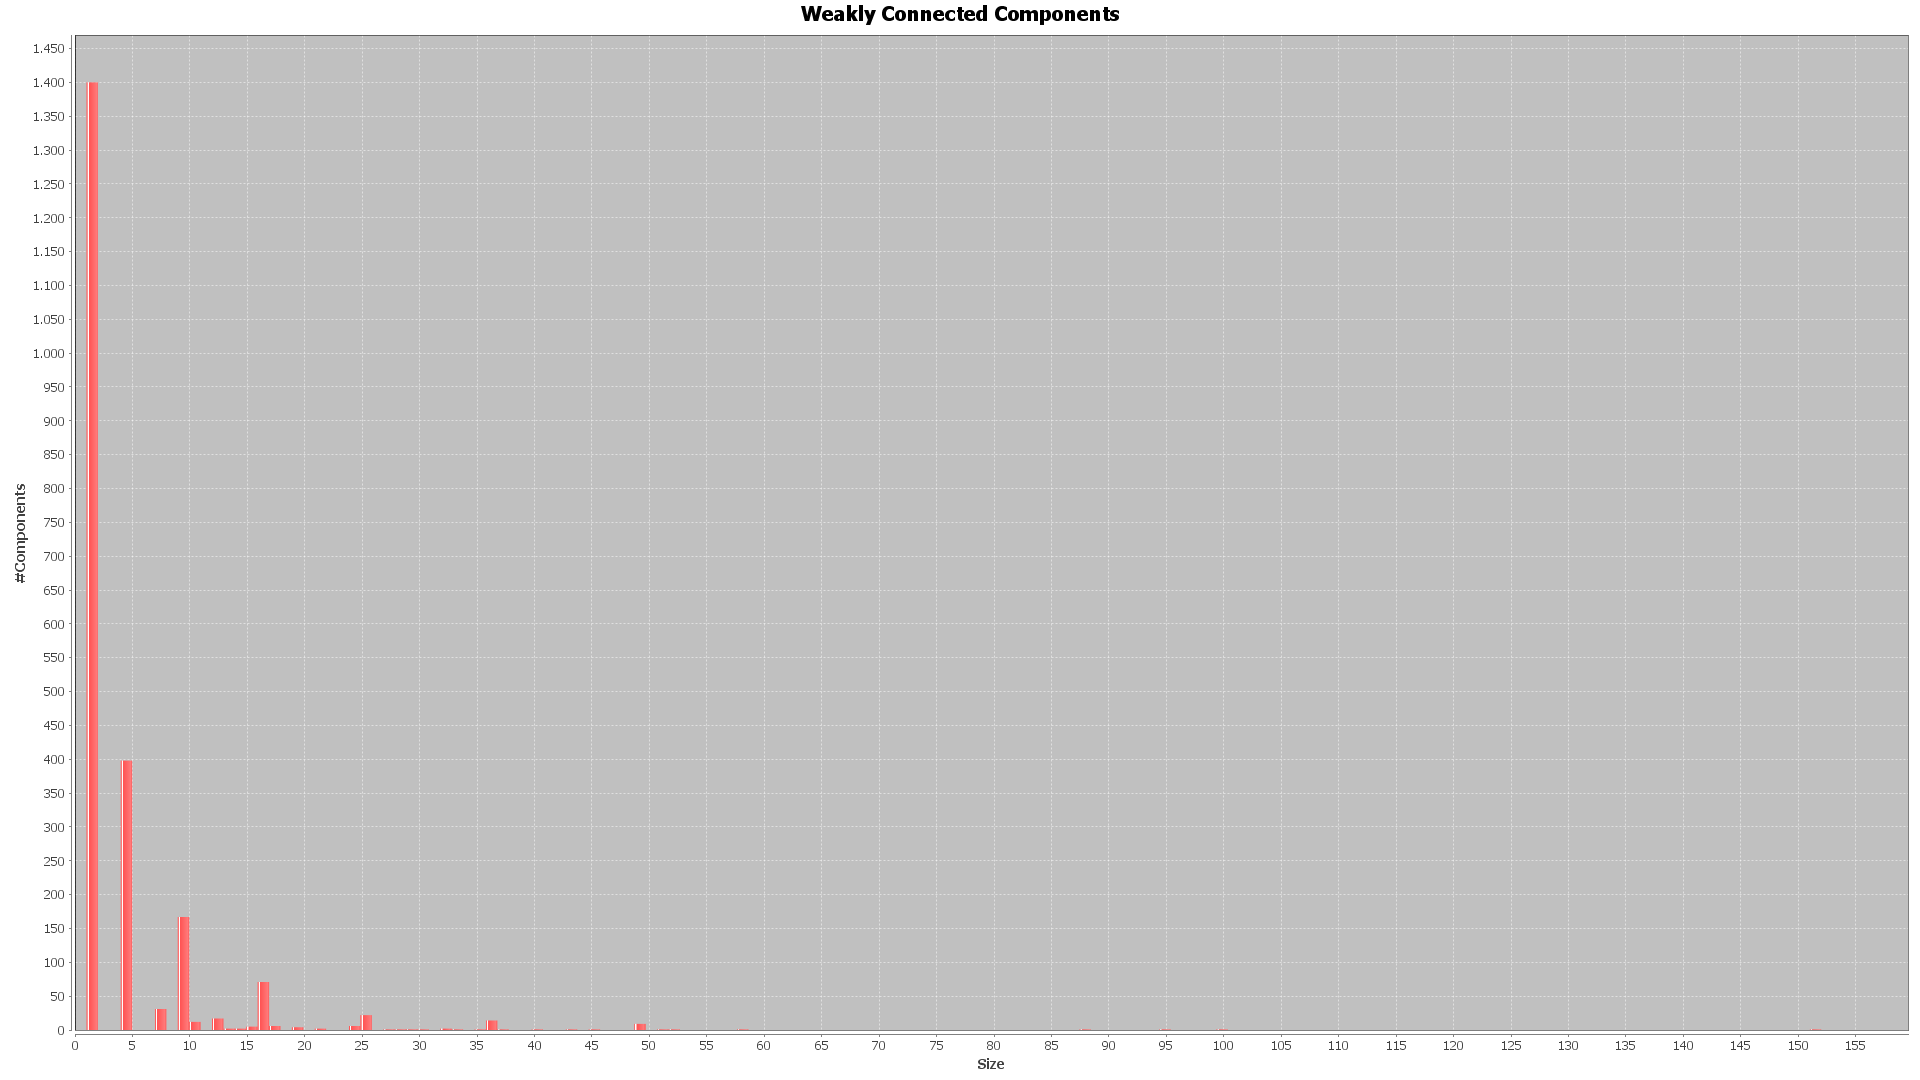
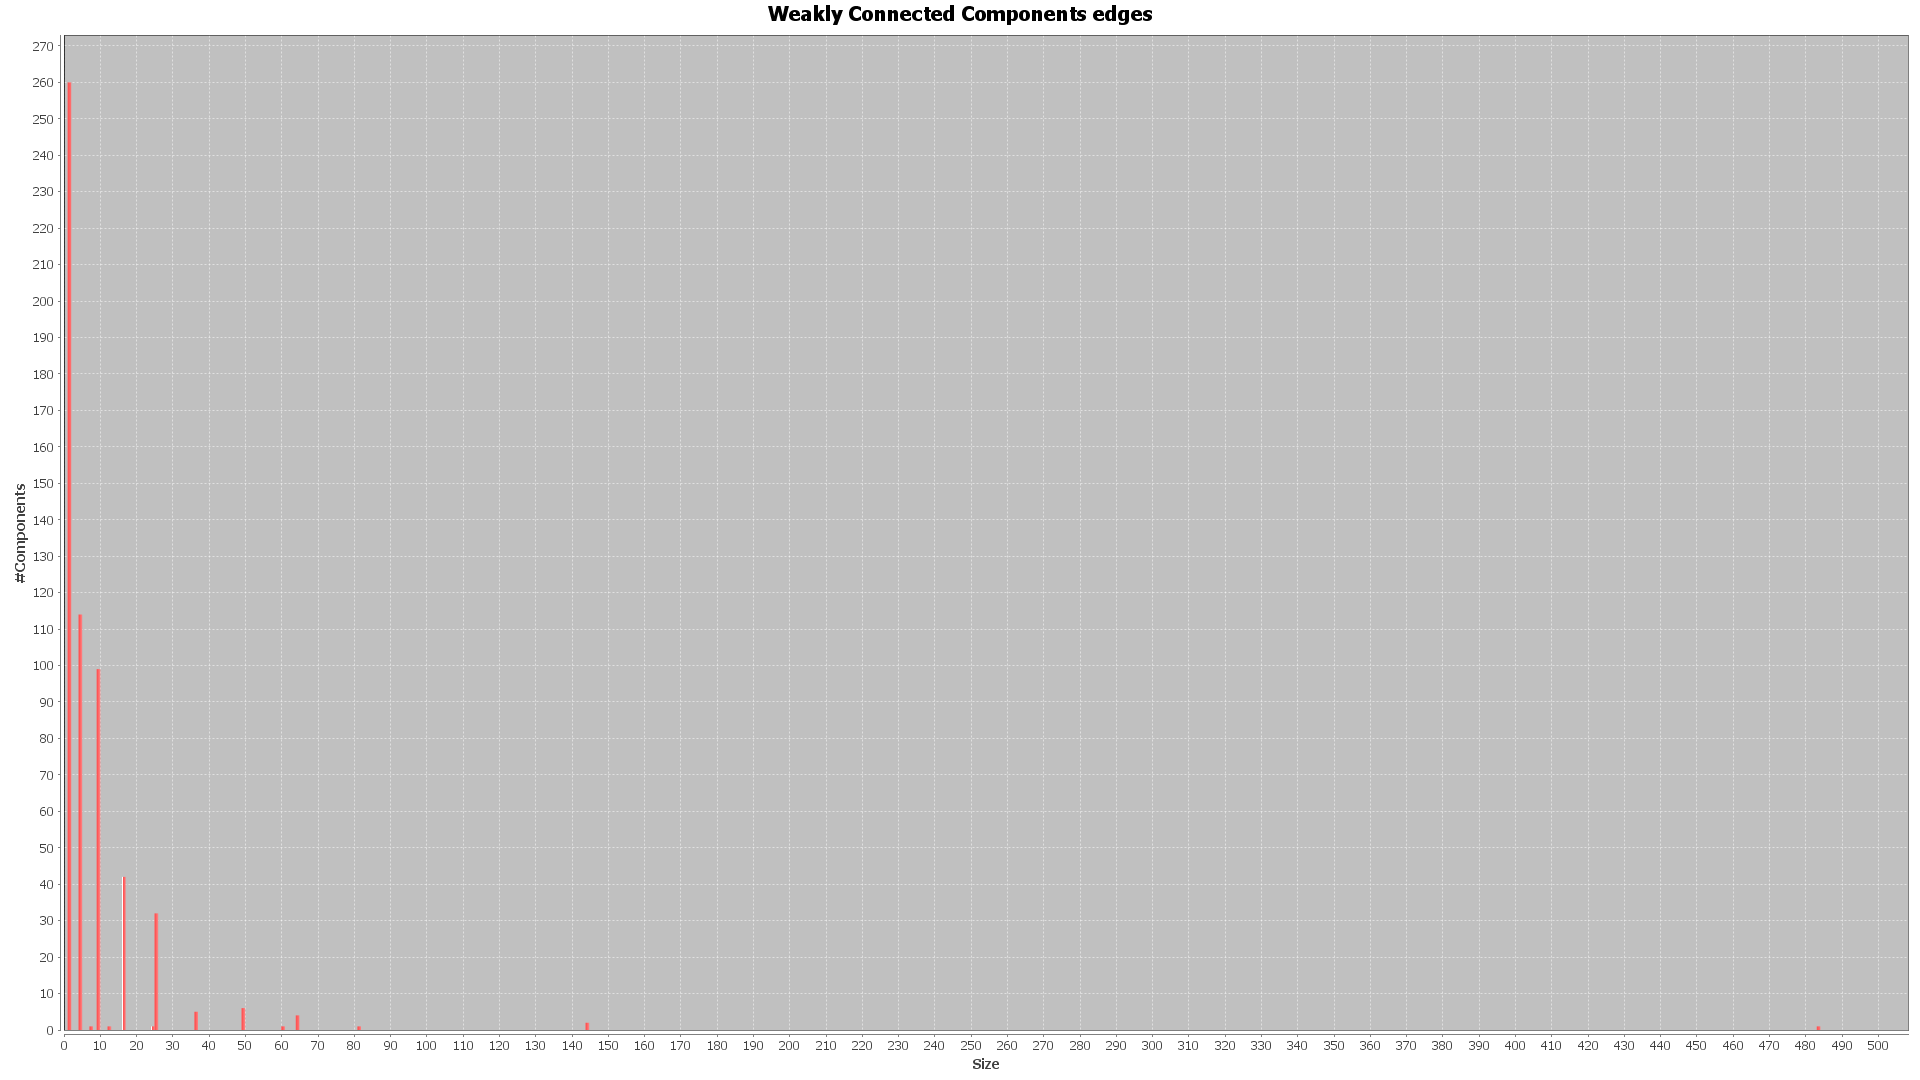
for presentation

diff --git a/src/main/java/de/alkern/Main.java b/src/main/java/de/alkern/Main.java
@@ -19,20 +19,25 @@ import edu.mit.ll.graphulo.Graphulo;
 import org.apache.accumulo.core.client.*;
 
 import java.util.HashMap;
+import java.util.LinkedList;
+import java.util.List;
 import java.util.Map;
+import java.util.concurrent.ConcurrentHashMap;
 import java.util.concurrent.TimeUnit;
 
 public class Main {
 
     private static final String TABLE = "authors";
+    private static Map<String, Long> elapsedTimes;
+    private static Graphulo graphulo;
 
     public static void main(String[] args)
-            throws AccumuloSecurityException, AccumuloException, TableExistsException, TableNotFoundException {
-        Map<String, Long> elapsedTimes = new HashMap<>();
+            throws AccumuloSecurityException, AccumuloException, TableExistsException, TableNotFoundException, InterruptedException {
+        elapsedTimes = new ConcurrentHashMap<>();
         Connector conn = AccumuloConnector.local();
-        Graphulo graphulo = GraphuloConnector.local(conn);
+        graphulo = GraphuloConnector.local(conn);
 //        Repository repo = new RepositoryImpl(TABLE, conn, new AdjacencyEntry.AdjacencyBuilder());
-//        GraphuloProcessor processor = new AuthorProcessor(repo);
+//        GraphuloProcessor processor = new AuthorProcessor(repo, 0.0001d);
 //
 //        long startParsing = System.nanoTime();
 //        processor.parse(ExampleData.DBLP);
@@ -41,24 +46,15 @@ public class Main {
 //        elapsedTimes.put("Parsing", TimeUnit.NANOSECONDS.toSeconds(parseTime));
 //        System.out.println("Parsing took " + parseTime + " ns");
 //
-//        WeaklyConnectedComponents wcc = new WeaklyConnectedComponents(graphulo, new VisitedNodesList());
-//        StronglyConnectedComponents scc = new StronglyConnectedComponents(graphulo, new VisitedNodesList());
+//        Thread wc = new Thread(Main::weak);
+//        Thread sc = new Thread(Main::strong);
+//        wc.start();
+//        sc.start();
+//        wc.join();
+//        sc.join();
 //
-//        long startWcc = System.nanoTime();
-//        wcc.calculateConnectedComponents(TABLE);
-//        long endWcc = System.nanoTime();
-//        long wccTime = endWcc - startWcc;
-//        elapsedTimes.put("Weakly", TimeUnit.NANOSECONDS.toSeconds(wccTime));
-//        System.out.println(TimeUnit.NANOSECONDS.toSeconds(wccTime));
-//
-//        long startScc = System.nanoTime();
-//        scc.calculateConnectedComponents(TABLE);
-//        long endScc = System.nanoTime();
-//        long sccTime = endScc - startScc;
-//        elapsedTimes.put("Strongly", TimeUnit.NANOSECONDS.toSeconds(sccTime));
-//        System.out.println(TimeUnit.NANOSECONDS.toSeconds(sccTime));
-//
-//        Statistics s = new Statistics(graphulo);
+        Statistics s = new Statistics(graphulo);
+        s.getJaccardAlike("authors", 0.75);
 //
 //        long startStat = System.nanoTime();
 //        s.buildMetadataTable(TABLE);
@@ -68,11 +64,33 @@ public class Main {
 //        System.out.println(TimeUnit.NANOSECONDS.toSeconds(statTime));
 //
 //        for (Map.Entry<String, Long> entry : elapsedTimes.entrySet()) {
-//            System.out.println(entry.getKey() + ": " + entry.getValue());
+//            System.out.println(entry.getKey() + ": " + entry.getValue() + "s");
 //        }
+//
+//        HistogramBuilder h = new HistogramBuilder(graphulo);
+//        h.getChartsAsPNG(TABLE, ComponentType.WEAK, SizeType.EDGES, 1920, 1080);
+//        h.getChartsAsPNG(TABLE, ComponentType.WEAK, SizeType.NODES, 1920, 1080);
+//        h.getChartsAsPNG(TABLE, ComponentType.STRONG, SizeType.EDGES, 1920, 1080);
+//        h.getChartsAsPNG(TABLE, ComponentType.STRONG, SizeType.NODES, 1920, 1080);
+    }
 
-        HistogramBuilder h = new HistogramBuilder(graphulo);
-        h.getChartsAsPNG(TABLE, ComponentType.WEAK, SizeType.EDGES, 1920, 1080);
-        h.getChartsAsPNG(TABLE, ComponentType.WEAK, SizeType.NODES, 1920, 1080);
+    private static void weak() {
+        WeaklyConnectedComponents wcc = new WeaklyConnectedComponents(graphulo, new VisitedNodesList());
+        long startWcc = System.nanoTime();
+        wcc.calculateConnectedComponents(TABLE);
+        long endWcc = System.nanoTime();
+        long wccTime = endWcc - startWcc;
+        elapsedTimes.put("Weakly", TimeUnit.NANOSECONDS.toSeconds(wccTime));
+        System.out.println(TimeUnit.NANOSECONDS.toSeconds(wccTime));
+    }
+
+    private static void strong() {
+        StronglyConnectedComponents scc = new StronglyConnectedComponents(graphulo, new VisitedNodesList());
+        long startScc = System.nanoTime();
+        scc.calculateConnectedComponents(TABLE);
+        long endScc = System.nanoTime();
+        long sccTime = endScc - startScc;
+        elapsedTimes.put("Strongly", TimeUnit.NANOSECONDS.toSeconds(sccTime));
+        System.out.println(TimeUnit.NANOSECONDS.toSeconds(sccTime));
     }
 }

diff --git a/src/main/java/de/alkern/author/AuthorProcessor.java b/src/main/java/de/alkern/author/AuthorProcessor.java
@@ -13,15 +13,24 @@ import java.util.Collection;
  */
 public class AuthorProcessor extends GraphuloProcessor {
 
+    private double threshold = 1d;
+
     public AuthorProcessor(Repository repo) {
         super(repo);
     }
     public AuthorProcessor(Repository repo, int size) {
         super(repo, size);
     }
+    public AuthorProcessor(Repository repo, double threshold) {
+        super(repo);
+        this.threshold = threshold;
+    }
 
     @Override
     protected void processLogic(DblpElement element) {
+        if (Math.random() > threshold) {
+            return;
+        }
         Collection<String> authors = element.attributes.get("author");
         for (String author1 : authors) {
             for (String author2 : authors) {

diff --git a/src/main/java/de/alkern/connected_components/analysis/HistogramBuilder.java b/src/main/java/de/alkern/connected_components/analysis/HistogramBuilder.java
@@ -46,7 +46,7 @@ public class HistogramBuilder {
         HistogramDataset ds = new HistogramDataset();
         ds.setType(HistogramType.FREQUENCY);
         ds.addSeries("h", sizes, max); //@TODO if all sizes are equal, the histogram is just a thin line
-        JFreeChart chart = ChartFactory.createHistogram(type.repr(), "Size", "#Components", ds,
+        JFreeChart chart = ChartFactory.createHistogram(type.repr() + " " + sizeType, "Size", "#Components", ds,
                 PlotOrientation.VERTICAL, false, false, false);
         try {
             String filename = table + "_" + type + "_" + sizeType;
